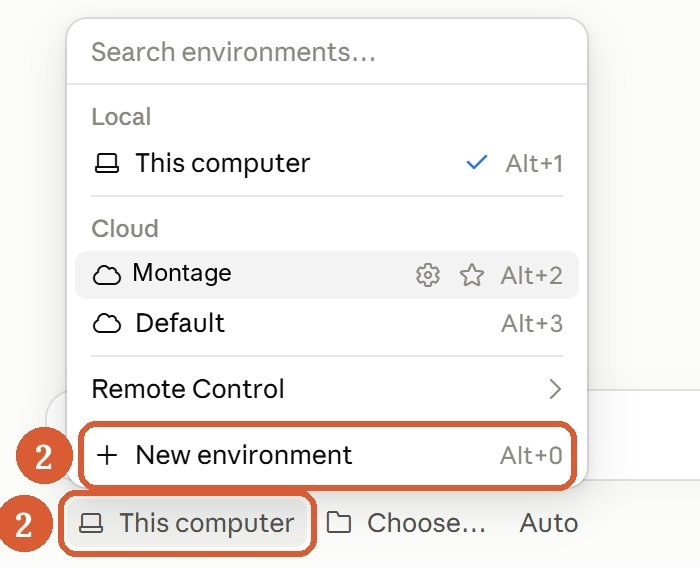
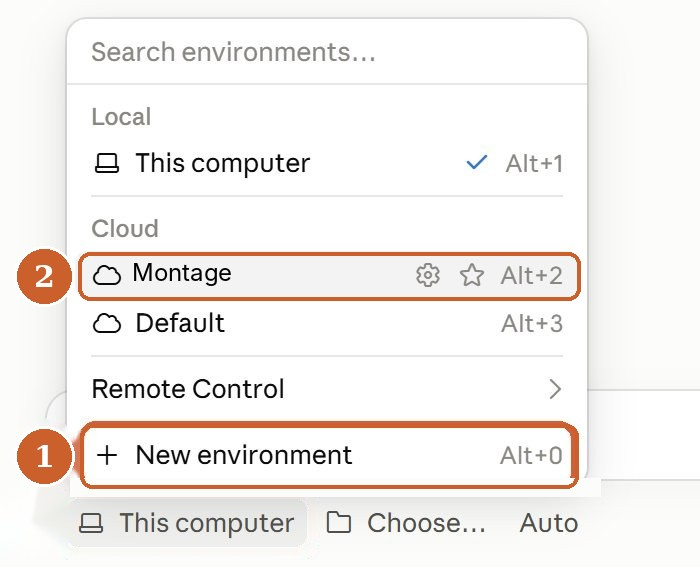
Шаг 3 облака: 1 — New environment, 2 — своя среда Montage (без отметки This computer)
Claude-Session: https://claude.ai/code/session_01BHcbc4dxQAaY15aNDfxTFi

Changed region(s): [[0.0, 0.7496, 0.84, 0.9894], [0.0, 0.4198, 0.84, 0.5397], [0.12, 0.4198, 0.81, 0.4497]]

diff --git a/guides/lavri-cut/index.html b/guides/lavri-cut/index.html
@@ -167,7 +167,7 @@ a{color:inherit;text-underline-offset:.22em}
 <figure><img alt="Customize, Connectors, Discover" loading="lazy" src="img/c2-customize.jpg"/></figure>
 <figure><img alt="GitHub Integration — Connect" loading="lazy" src="img/c2-github.jpg"/></figure></div>
 <div class="step" id="cl-3"><span class="num">Шаг 3</span><h3>Своя облачная среда</h3>
-<ol><li>В приложении Claude → <b>Code</b> → <b>+ New</b>.</li><li>Под полем ввода нажмите на среду → <b>+ New environment</b>. Создаём <b>новую</b> облачную среду — не This computer и не Default.</li></ol>
+<ol><li>В приложении Claude → <b>Code</b> → <b>+ New</b>.</li><li>Под полем ввода нажмите на среду → <b>+ New environment</b> (на картинке — 1). Создаём <b>новую</b> облачную среду — не This computer и не Default. После сохранения она появится в списке Cloud — ваша <b>Montage</b> (на картинке — 2).</li></ol>
 <figure><img alt="Новая сессия в Code" loading="lazy" src="img/c3-new.jpg"/></figure>
 <figure><img alt="Меню сред: New environment" loading="lazy" src="img/c3-env-menu.jpg"/></figure>
 <ol start="3"><li><b>Name:</b> <code>Montage</code>. <b>Network access:</b> Limited.</li><li>Поставьте галочку <b>Allow package managers</b> — без неё среда не заработает (ошибка 403).</li><li><b>Allowed domains</b> — список ниже.</li></ol>
